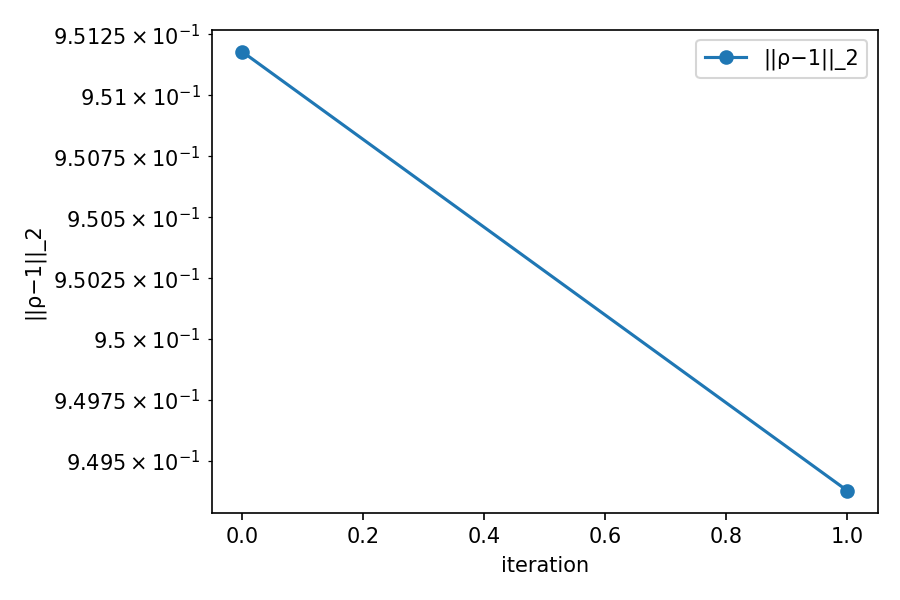
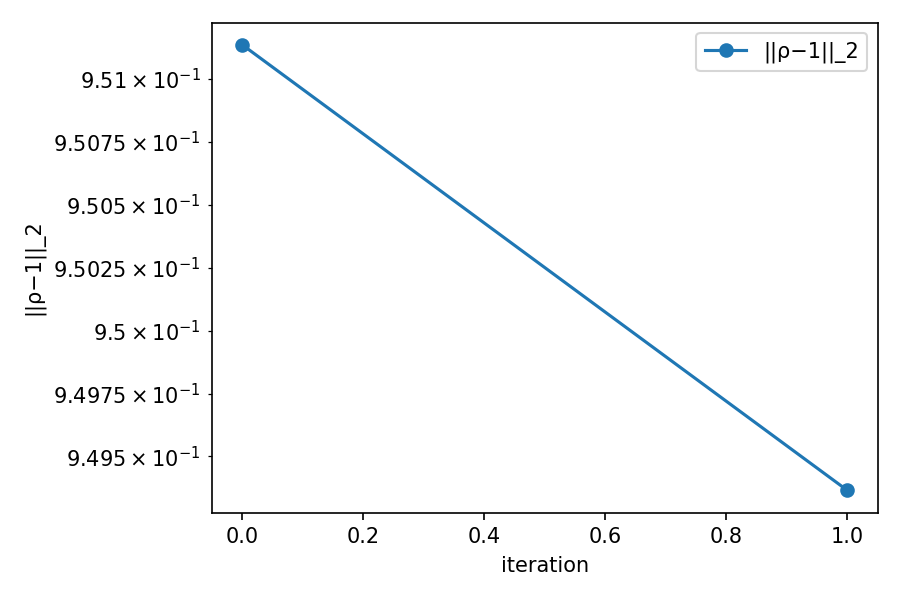
chore: Force more acceptance (ls_pos_slack≈5e-6, du_cap≈0.35, λ_Q≈0.18, dt_init≈2e-3)
- Updated long-run configuration and pushed latest results JSON and plot

diff --git a/phase4_unification_enhanced_longrun.py b/phase4_unification_enhanced_longrun.py
@@ -18,12 +18,12 @@ def run_longrun() -> Dict:
     # Many-step monotone schedule per directive
     p = EnhancedParams(
         max_iters=6000,
-        du_cap=0.30,
+        du_cap=0.35,
         ls_rel_tol=2e-5,
         ls_abs_tol=1e-8,
         robust_quantile=0.90,
-        lambda_Q=0.20,
-        dt_init=1e-3,
+        lambda_Q=0.18,
+        dt_init=2e-3,
         dt_min=1e-10,
         k_eig=18,
         local_smooth_window=15,
@@ -32,7 +32,7 @@ def run_longrun() -> Dict:
     )
     # Apply tiny positive acceptance slack to avoid numerical pinning
     try:
-        setattr(p, 'ls_pos_slack', 1e-6)
+        setattr(p, 'ls_pos_slack', 5e-6)
     except Exception:
         pass
     res = simulate_one(p, long_time=True)
